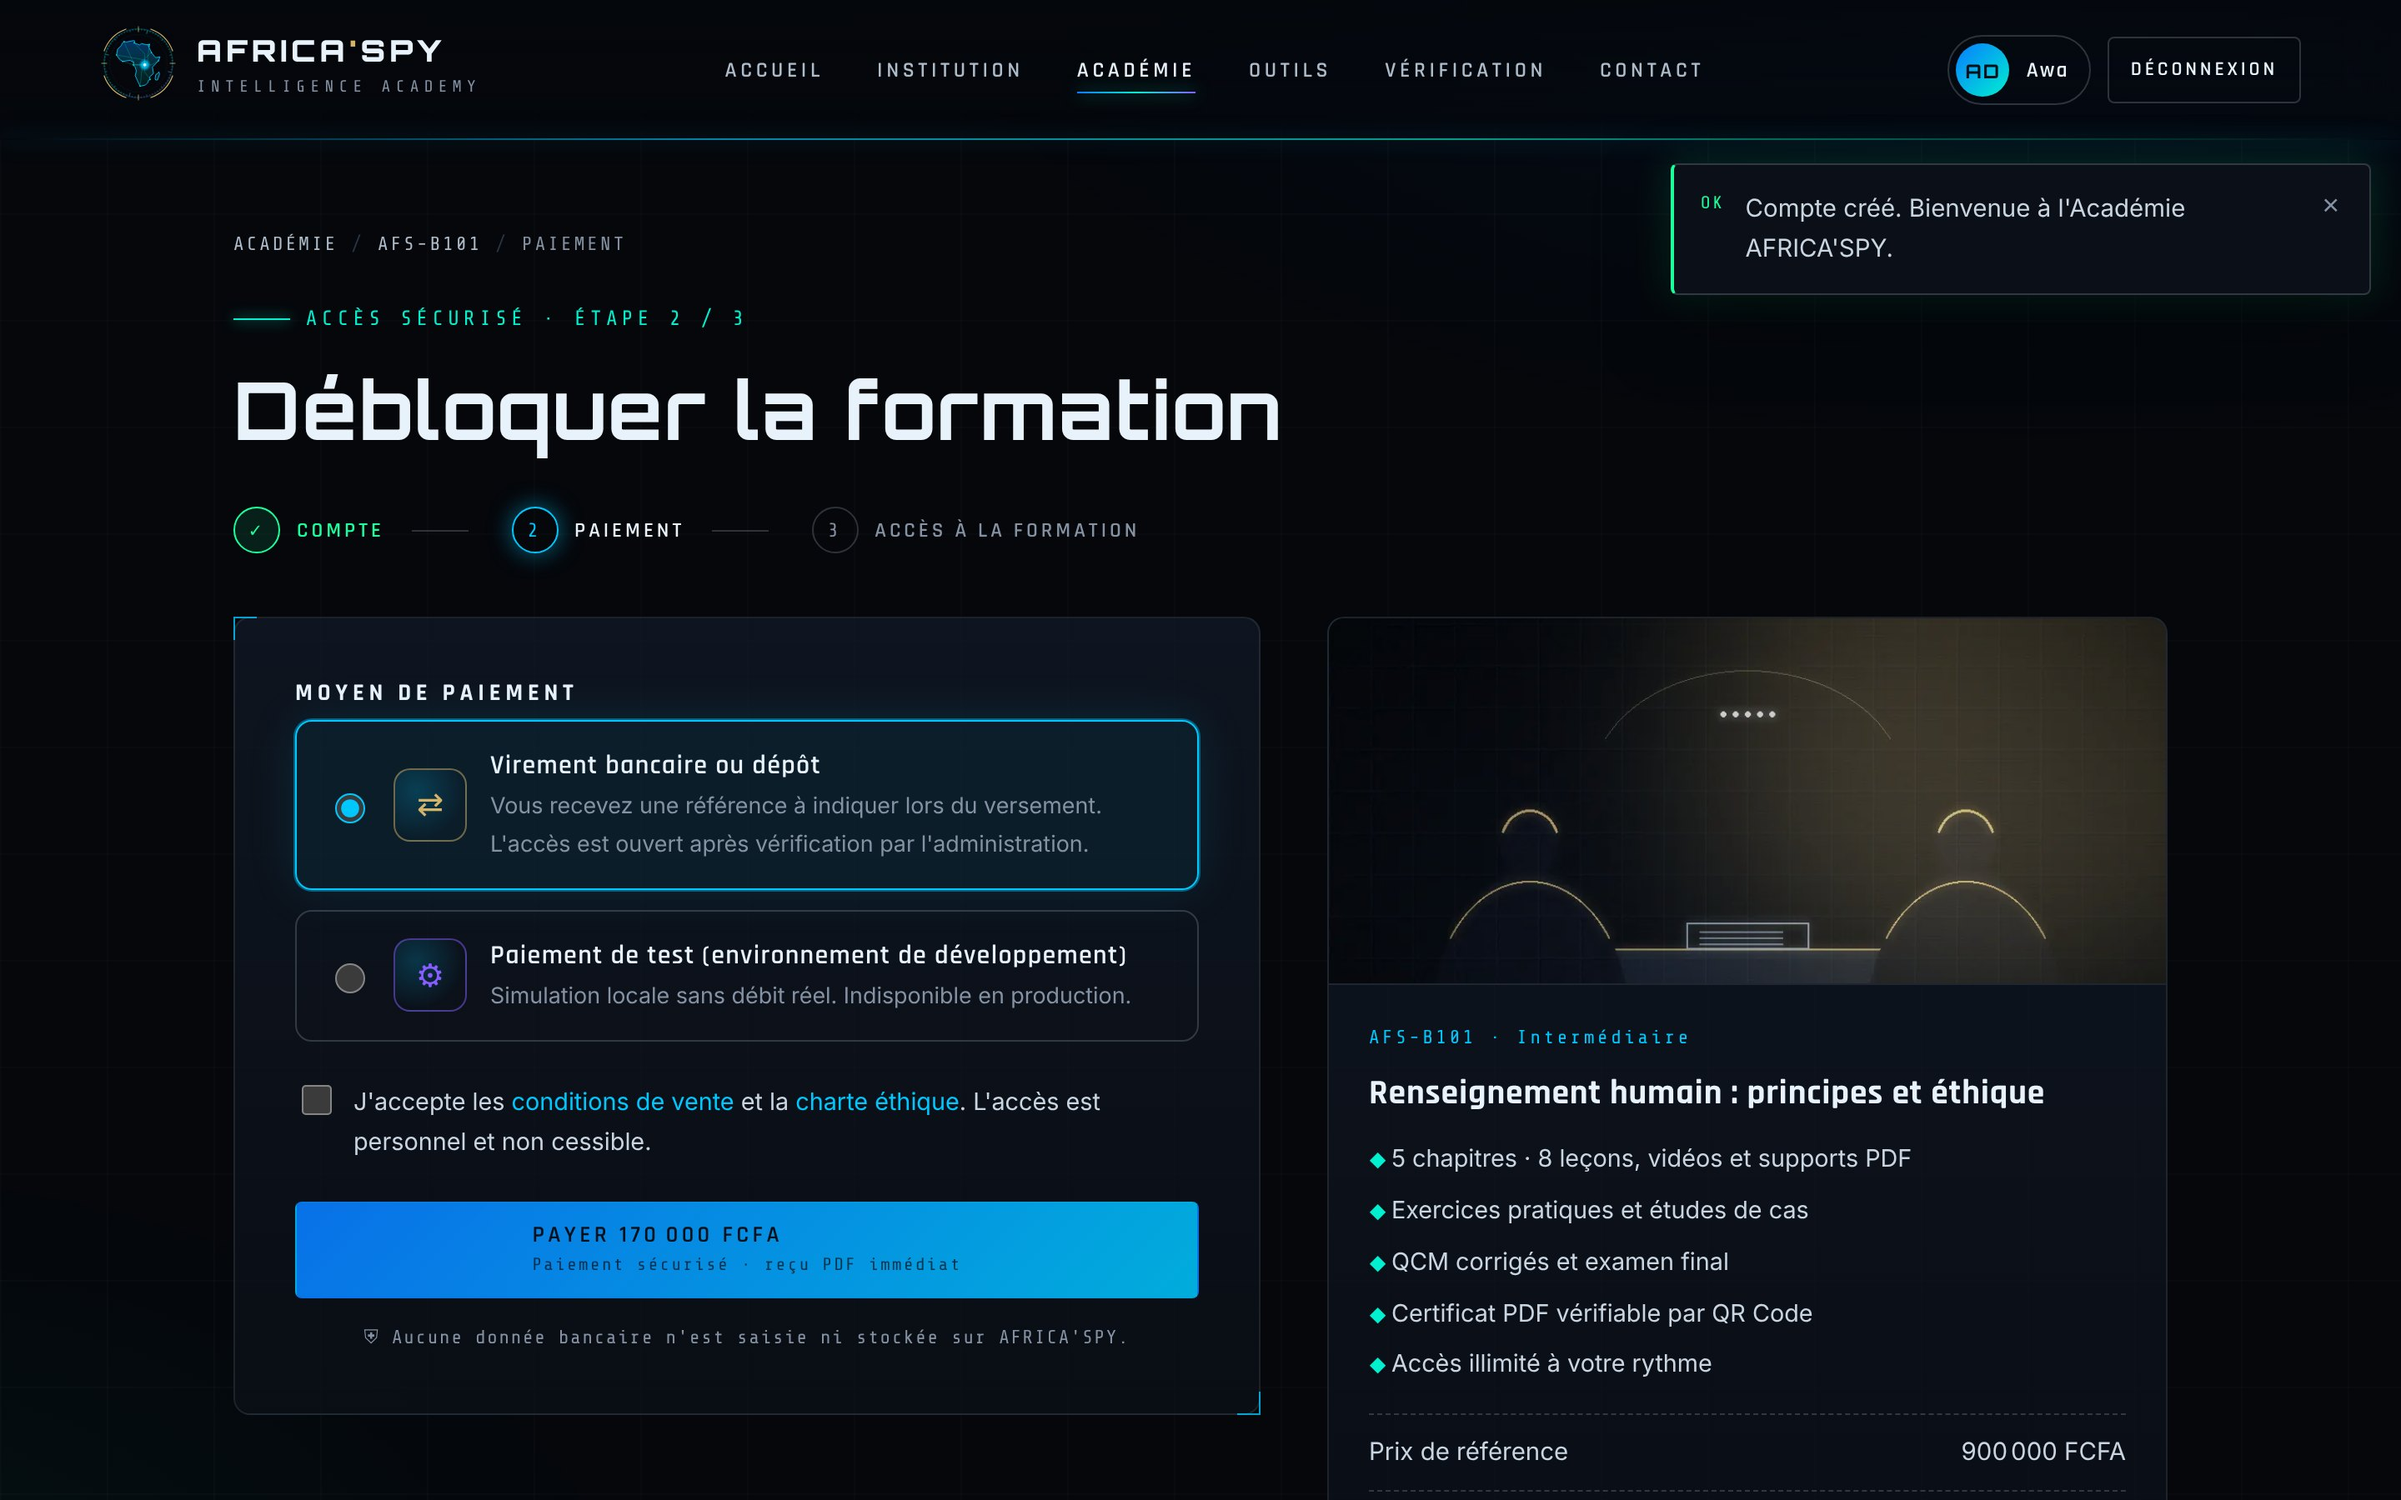
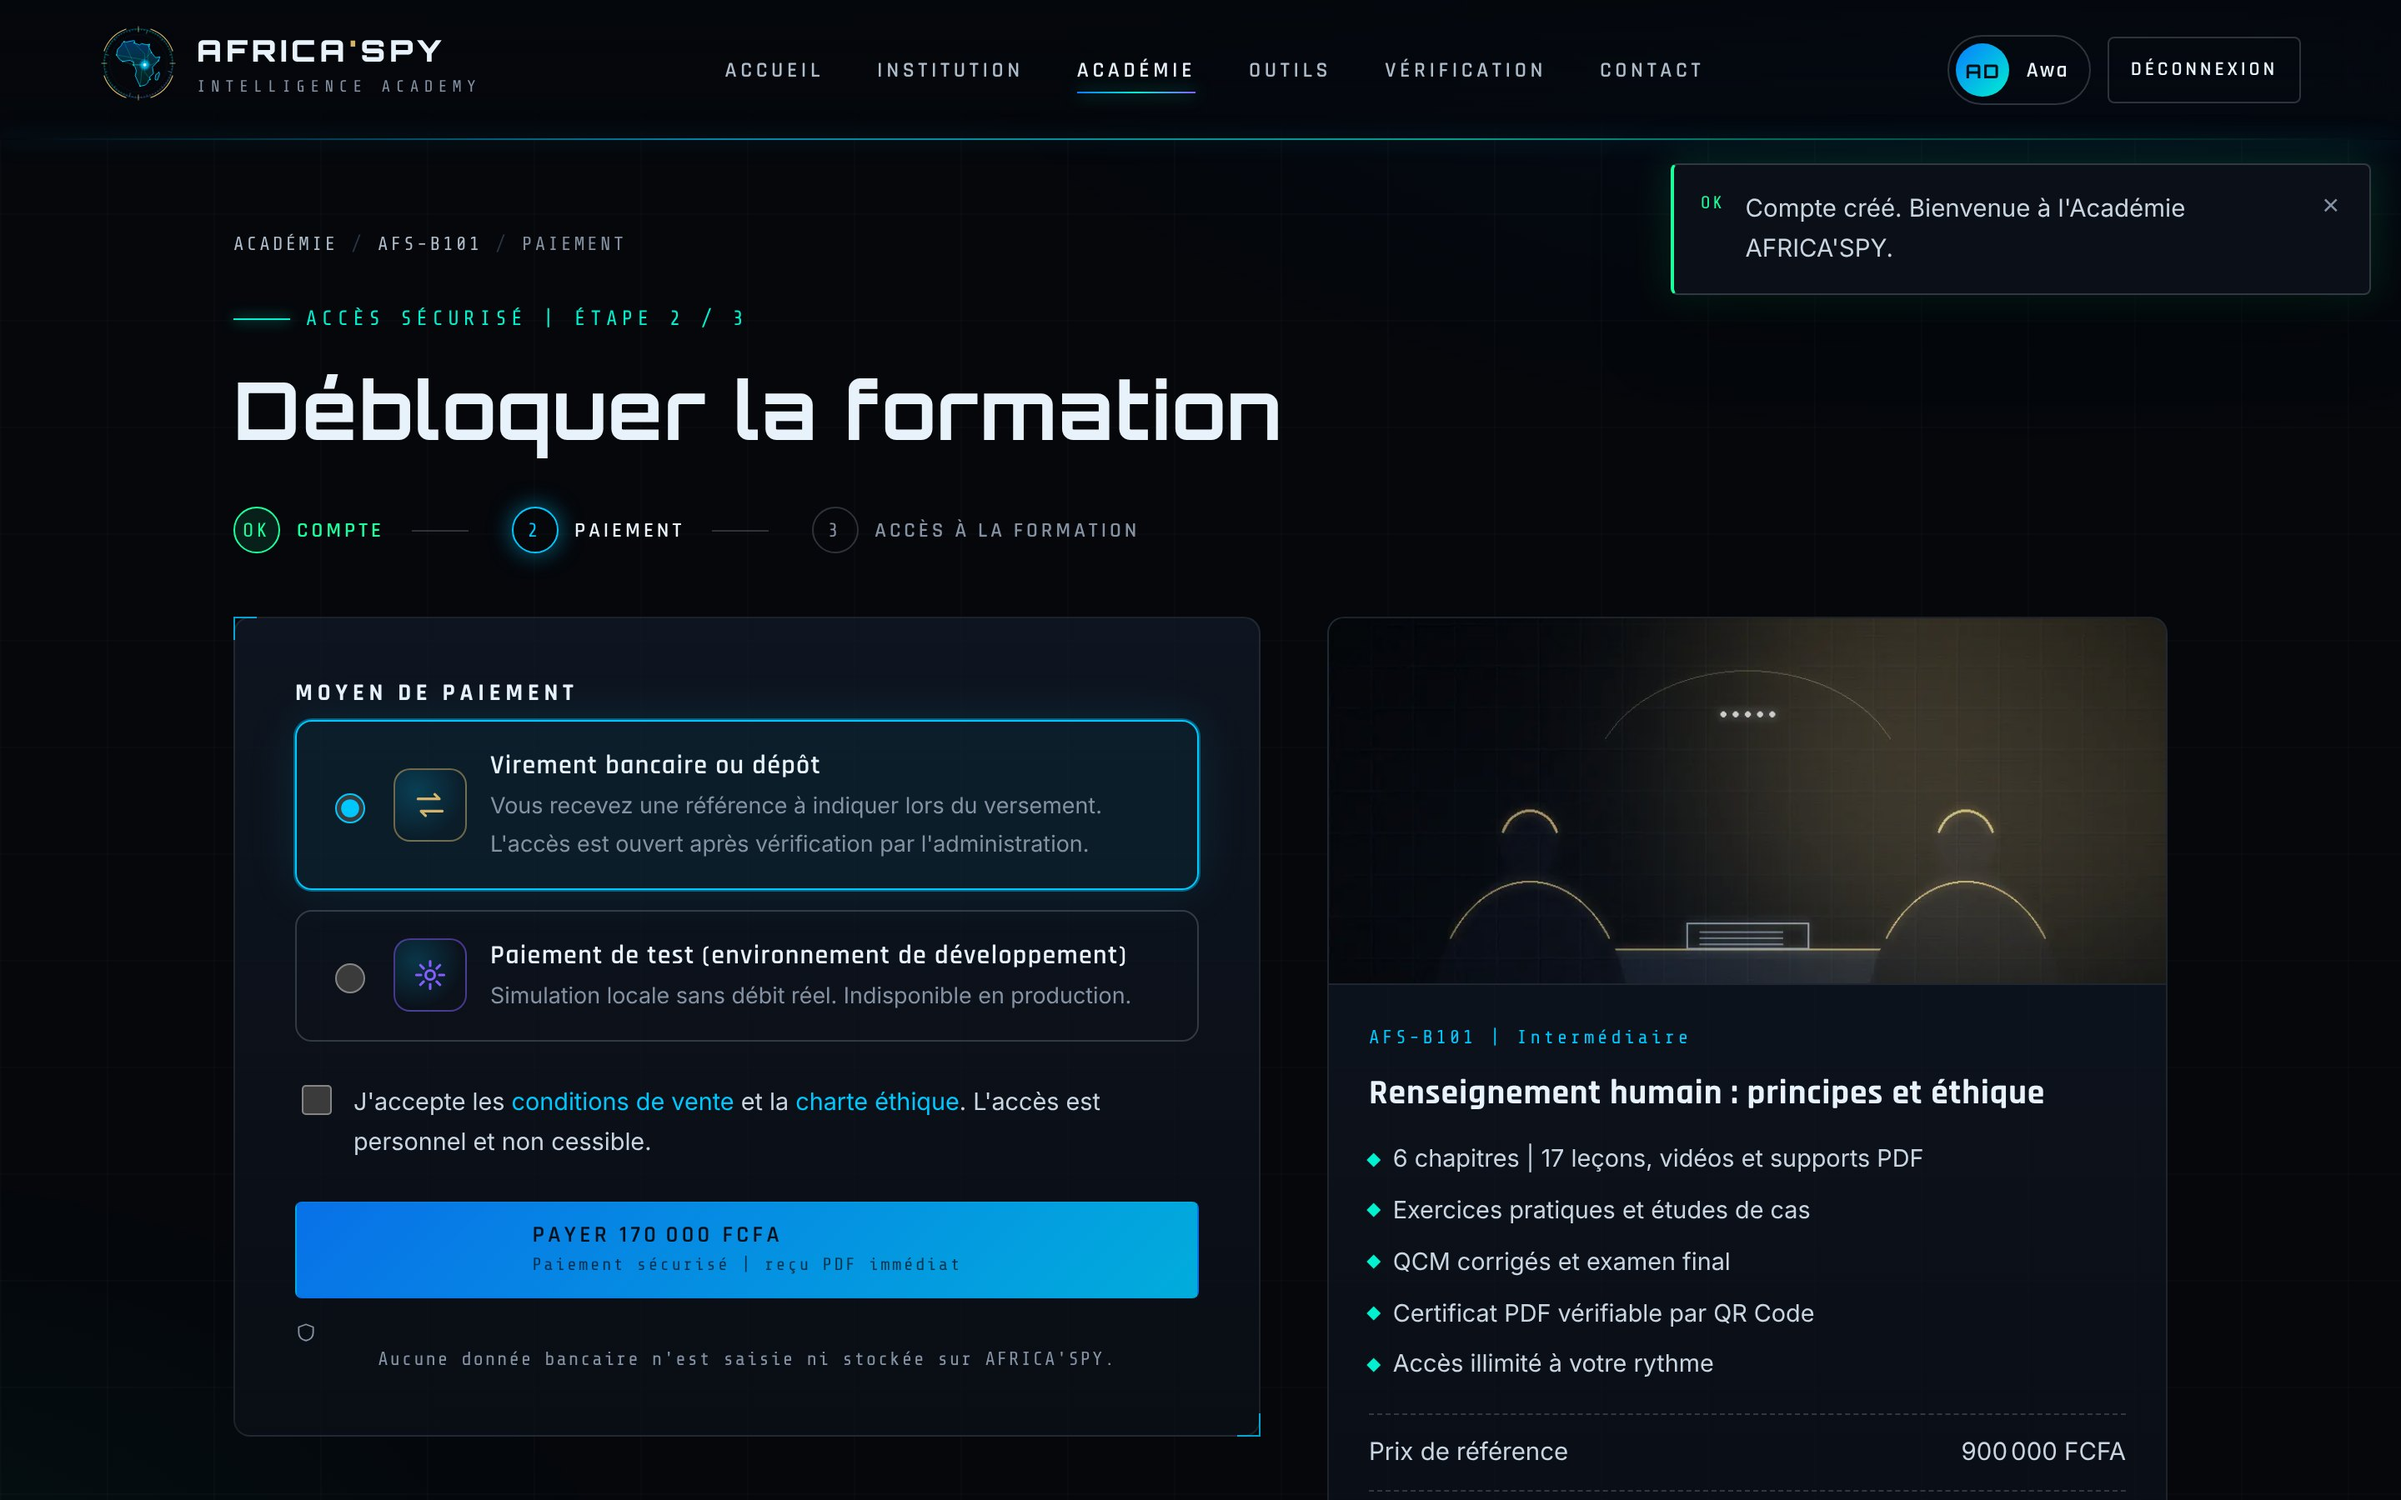
Captures d'écran régénérées (typographie sobre) et capture d'éléments sans en-tête superposé
Claude-Session: https://claude.ai/code/session_01QhzKrVTdNdkb8Gs1SmPGMF

Changed region(s): [[0.5625, 0.7467, 0.8125, 0.9333], [0.1562, 0.6222, 0.1875, 0.6533]]

diff --git a/tests/screenshots.js b/tests/screenshots.js
@@ -19,7 +19,12 @@ async function settle(p, sel) {
 }
 async function shot(p, name, sel, opts = {}) {
   await settle(p, sel);
-  if (sel && opts.element) await p.locator(sel).first().screenshot({ path: path.join(OUT, name + '.jpg'), type: 'jpeg', quality: 86 });
+  if (sel && opts.element) {
+    // L'en-tête fixe et le lien d'évitement se superposeraient à la capture d'un élément haut
+    const hide = await p.addStyleTag({ content: '.site-header,.skip-link,.toast,.flash-stack{visibility:hidden!important}' });
+    await p.locator(sel).first().screenshot({ path: path.join(OUT, name + '.jpg'), type: 'jpeg', quality: 86 });
+    await hide.evaluate(n => n.remove());
+  }
   else await p.screenshot({ path: path.join(OUT, name + '.jpg'), type: 'jpeg', quality: 86, fullPage: !!opts.full });
   console.log('OK', name);
 }
